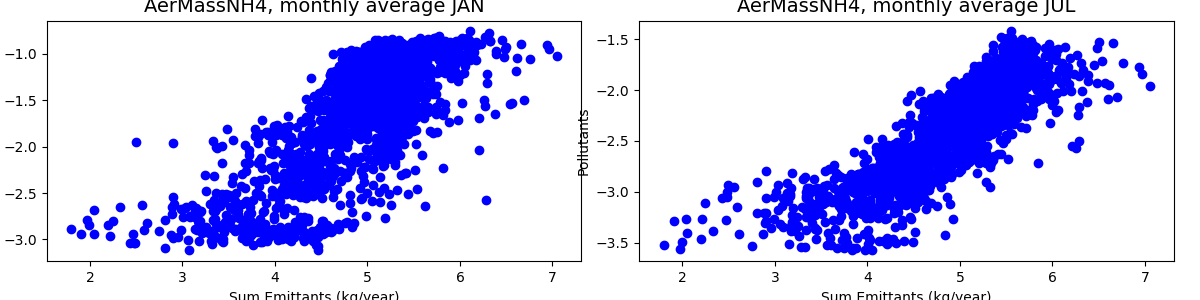
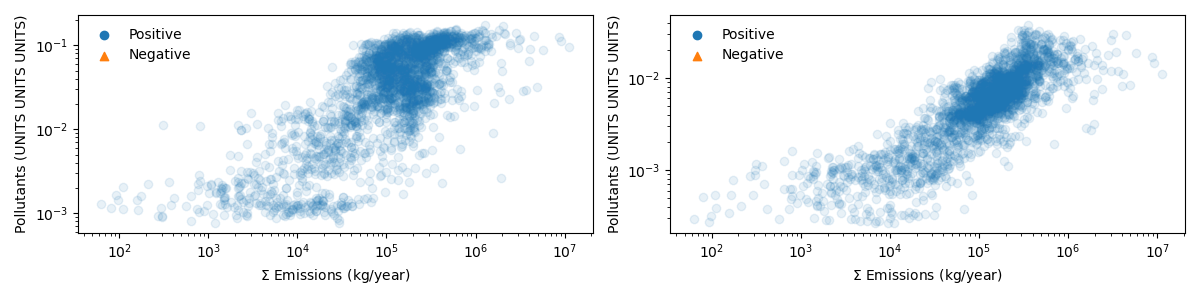
Save pictures and render scatter plots properly

diff --git a/division_processing/scatter_log_europe.py b/division_processing/scatter_log_europe.py
@@ -4,7 +4,7 @@ from shapely.geometry import MultiPolygon
 from shapely.vectorized import contains
 import os
 import numpy as np
-from utils import *
+from utils import differencer, adder
 import time
 from cartopy.io.shapereader import natural_earth, Reader
 from shapely.prepared import prep
@@ -45,10 +45,10 @@ prep_europe = prep(europe_geom)
 types = {
     'Aerosol': {
         'PM25': ['nvPM'],
-        'AerMassNIT': ['NO2'],
-        'AerMassNH4': ['NO2'],
-        'AerMassPOA': ['nvPM', 'HC'],
-        'AerMassBC': ['nvPM']
+        # 'AerMassNIT': ['NO2'],
+        # 'AerMassNH4': ['NO2'],
+        # 'AerMassPOA': ['nvPM', 'HC'],
+        # 'AerMassBC': ['nvPM']
     },
     'O3': {
         'SpeciesConc_O3': ['NO2', 'HC', 'CO']
@@ -81,26 +81,32 @@ for type_, vars in types.items():
             
             emittants_lst.append(sum_emittant.where(mask)) 
             
-            
         for i, month in enumerate(months):
             np.set_printoptions(threshold=np.inf)
 
             # mask the top emissions data
-            mask = pollutants_lst[i].values > 0
-            
-            
-            
-            ax[i].scatter(emittants_lst[i].values, pollutants_lst[i].values, color='blue', alpha = 0.2)
-            
-            
-            ax[i].set_title(f"{var}, monthly average {month}", fontsize=14)
-            
-            ax[i].set_xlabel('Sum Emittants (kg/year)')
-            ax[i].set_ylabel('Pollutants')
+            mask = (pollutants_lst[i].values > 0) & (~np.isnan(pollutants_lst[i].values))
+            neg_mask = (pollutants_lst[i].values < 0) & (~np.isnan(pollutants_lst[i].values))
+            # Apply the mask to get valid data
+            positive_pollutants = pollutants_lst[i].values[mask]
+            positive_emittants = emittants_lst[i].values[mask]
+            negative_pollutants = np.abs(pollutants_lst[i].values[neg_mask])
+            negative_emittants = np.abs(emittants_lst[i].values[neg_mask])
+
+            # Plot
+            ax[i].scatter(positive_emittants, positive_pollutants, color='tab:blue', alpha=0.1, label= "Positive")
+            ax[i].scatter(negative_emittants, negative_pollutants, color='tab:orange', alpha=0.1, label= "Negative", marker="^")
+            # ax[i].set_title(f"{var}, monthly average {month}", fontsize=14)
+            ax[i].set_xlabel(r'$\Sigma$ Emissions (kg/year)')
+            ax[i].set_ylabel('Pollutants (UNITS UNITS UNITS)')
             ax[i].set_xscale('log')
             ax[i].set_yscale('log')
-            
-        # plt.savefig(os.path.join(os.path.dirname(__file__), '..', 'division_processing', 'scatter_figures_log', f'{type_}_{var}_timeaveraged_Europe_scatter_log.png'))
+            legend = ax[i].legend(frameon=False)
+            for legend_handle in legend.legend_handles:
+                legend_handle.set_alpha(1)
+            plt.tight_layout()
+        
+        plt.savefig(os.path.join(os.path.dirname(__file__), '..', 'division_processing', 'scatter_figures_log', f'{type_}_{var}_timeaveraged_Europe_scatter_log.png'))
 
 end = time.time()
 plt.show()
